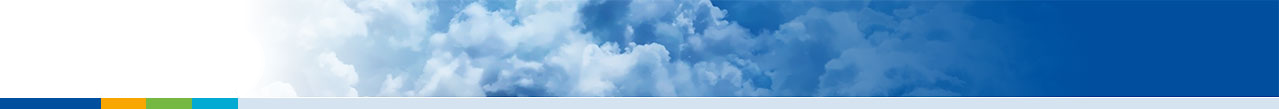
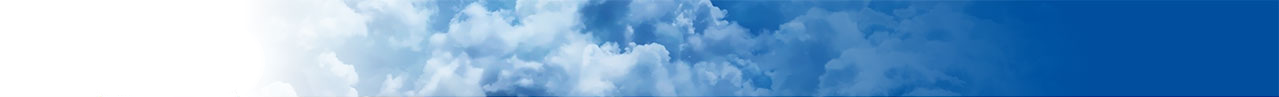
Update Header & Footer
Move header and foot components. Use more vuetify 3 beta components to make prettier header and footer

diff --git a/src/components/util/AppHeader.vue b/src/components/util/AppHeader.vue
@@ -1,0 +1,71 @@
+<template id="app-header">
+  <div class="app-header">
+    <v-app-bar app flat height="124">
+      <template v-slot:image>
+        <v-container fluid class="pt-0">
+          <v-img height="110" cover :src="banner" />
+          <v-img cover :src="foot" />
+        </v-container>
+      </template>
+
+      <template v-slot:default>
+        <v-container fluid>
+          <v-row>
+            <v-spacer />
+            <select-locale class="pt-4" />
+          </v-row>
+          <v-row fill-height align="center">
+            <a :href="wis2" title="wis2box">
+              <img :src="logo" class="px-4 pb-6" />
+            </a>
+            <v-btn-group divided>
+              <v-btn
+                v-text="$t('navigation.home')"
+                class="font-weight-bold"
+                to="/"
+              />
+              <v-btn
+                v-text="$t('navigation.services')"
+                class="font-weight-bold"
+                to="/services"
+              />
+              <v-btn
+                v-text="$t('navigation.documentation')"
+                class="font-weight-bold"
+                :href="documentation"
+                target="_window_docs"
+              />
+            </v-btn-group>
+          </v-row>
+        </v-container>
+      </template>
+    </v-app-bar>
+  </div>
+</template>
+
+<script>
+import SelectLocale from "./SelectLocale.vue";
+import logo from "@/assets/img/logo.png";
+import banner from "@/assets/img/wmo-banner.png";
+import foot from "@/assets/img/wmo-foot.png";
+import { documentation } from "../../../package";
+
+import { defineComponent } from "vue";
+
+export default defineComponent({
+  name: "AppHeader",
+  template: "#app-header",
+  components: {
+    SelectLocale,
+  },
+  data: function () {
+    return {
+      documentation: documentation,
+      wis2: "https://community.wmo.int/activity-areas/wis/wis2-implementation",
+      logo: logo,
+      banner: banner,
+      foot: foot,
+    };
+  },
+});
+</script>

diff --git a/src/components/util/AppFooter.vue b/src/components/util/AppFooter.vue
@@ -1,0 +1,38 @@
+<template id="app-footer">
+  <div class="app-footer">
+    <v-footer app extended flat height="110">
+      <v-row justify="center">
+        <v-col cols="12">
+          <v-img :src="foot" cover />
+        </v-col>
+        <v-col class="primary text-center" cols="12">
+          <p>
+            {{ $t("footer.powered_by") }}
+            <a :title="name" :href="home" v-html="name" />
+            {{ version }}
+          </p>
+        </v-col>
+      </v-row>
+    </v-footer>
+  </div>
+</template>
+
+<script>
+import foot from "@/assets/img/wmo-foot.png";
+import { name, version, homepage } from "../../../package";
+
+import { defineComponent } from "vue";
+
+export default defineComponent({
+  name: "AppFooter",
+  template: "#app-footer",
+  data: function () {
+    return {
+      version: version,
+      name: name,
+      home: homepage,
+      foot: foot,
+    };
+  },
+});
+</script>

diff --git a/src/App.vue b/src/App.vue
@@ -1,7 +1,6 @@
 <template>
   <v-app id="v-app">
     <app-header />
-    <v-divider class="my-1" />
 
     <v-main>
       <v-container fluid>
@@ -9,14 +8,13 @@
       </v-container>
     </v-main>
 
-    <v-divider class="my-1" />
     <app-footer />
   </v-app>
 </template>
 
 <script>
-import AppHeader from "@/components/AppHeader.vue";
-import AppFooter from "@/components/AppFooter.vue";
+import AppHeader from "@/components/util/AppHeader.vue";
+import AppFooter from "@/components/util/AppFooter.vue";
 
 import { useI18n } from "vue-i18n";
 

diff --git a/src/components/util/SelectLocale.vue b/src/components/util/SelectLocale.vue
@@ -14,7 +14,7 @@
 
 <script>
 // https://www.digitalocean.com/community/tutorials/vuejs-vue-with-i18n
-import { loadLocale } from "../locales/i18n";
+import { loadLocale } from "@/locales/i18n";
 import { defineComponent } from "vue";
 
 export default defineComponent({
